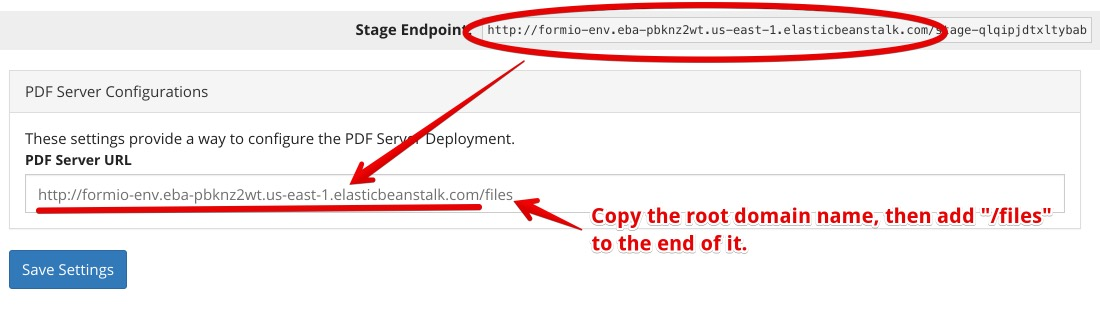
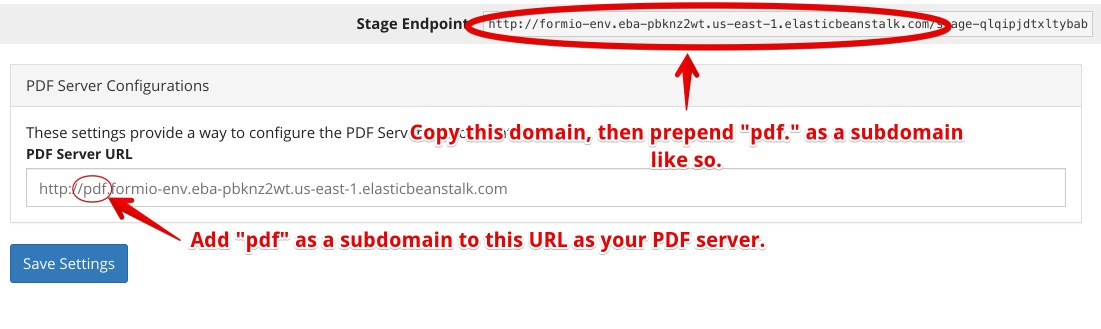
Updated build and version.

Changed region(s): [[0.0, 0.233, 0.9582, 0.9612], [0.0309, 0.0, 1.0, 0.3204], [0.0, 0.233, 0.1855, 0.3204]]

diff --git a/_paragraphs/tutorials/deployment/aws/project.md b/_paragraphs/tutorials/deployment/aws/project.md
@@ -22,7 +22,7 @@ weight: 13
 
     ![](/assets/img/integrations/aws/eb/pdfsettings.jpg){: .img-fluid .img-thumbnail }
 
- - Next, set the PDF Server URL to the Domain name of your API server + '/files' like so.
+ - Next, set the PDF Server URL to the Domain name with a "pdf" subdomain, like so.
 
     ![](/assets/img/integrations/aws/eb/pdfurl.jpg){: .img-fluid .img-thumbnail }
 
